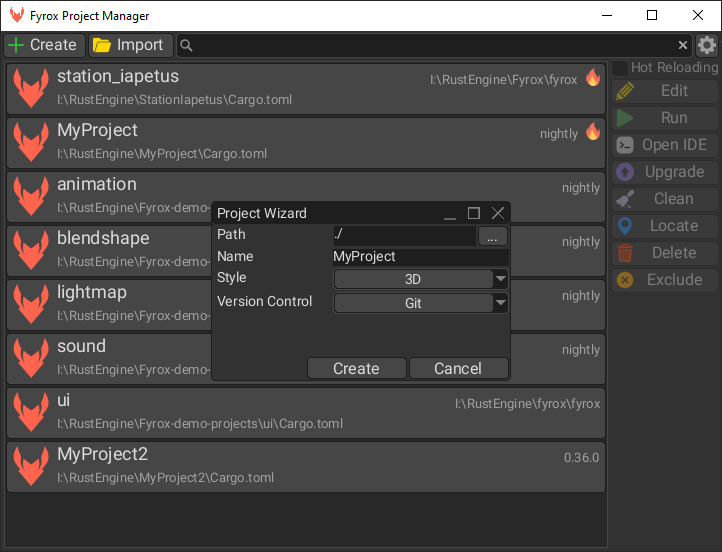
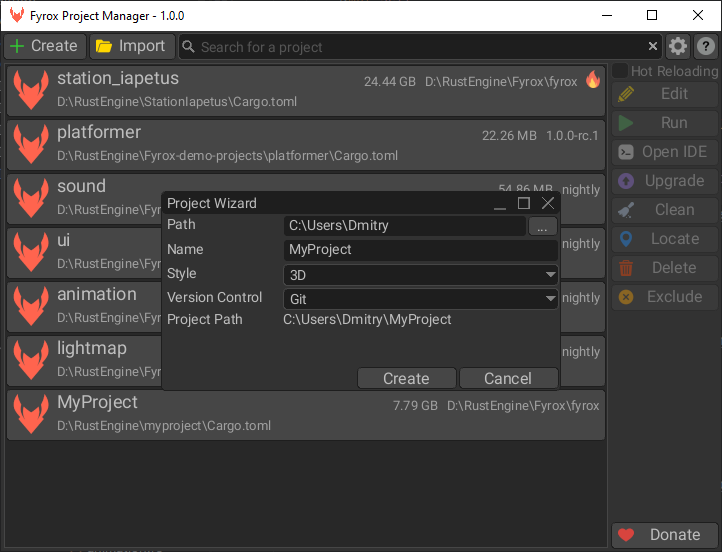
pm updates

diff --git a/src/beginning/project_manager.md b/src/beginning/project_manager.md
@@ -39,8 +39,9 @@ Every project has its own item in the list of projects, it shows important infor
 
 1. Project name.
 2. Full path to the project.
-3. Version of the engine the project uses.
-4. Code hot reloading marker. 
+3. Size of the project on disk.
+4. Version of the engine the project uses.
+5. Code hot reloading marker. 
 
 ## Project Management
 
